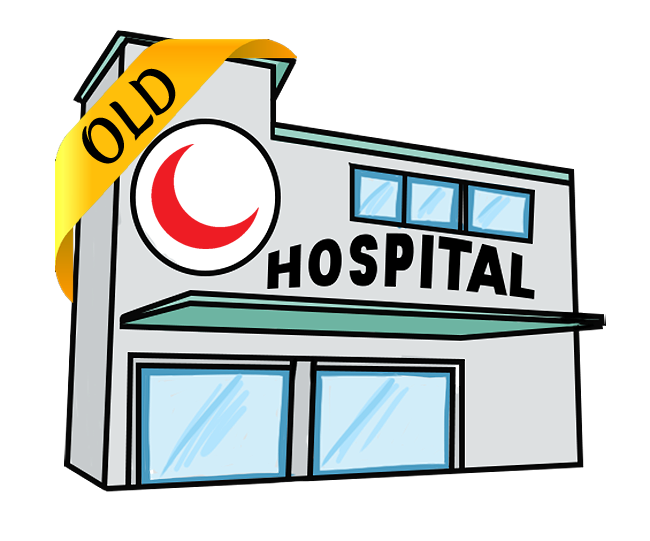
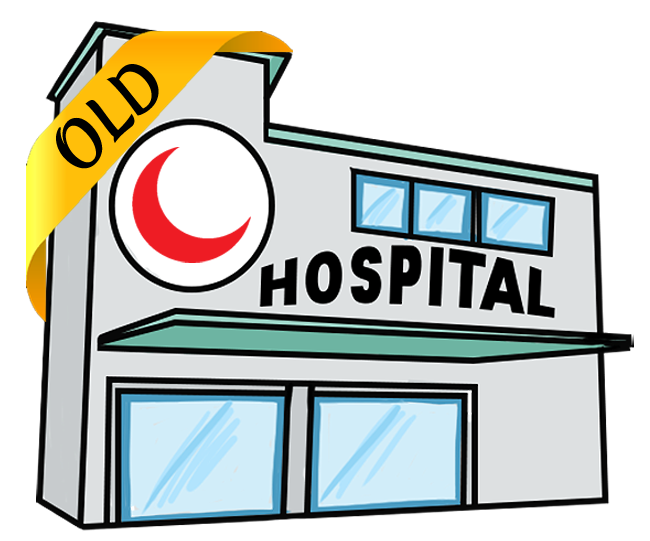
code quality update
1.separate task for recommend and return in "Recommend PO"
2.change resolution for old hospital

diff --git a/controllers/Procurement.php b/controllers/Procurement.php
@@ -50,7 +50,7 @@ class Procurement extends CI_Controller {
 			//echo "lalalal : ".$data['mrintype'];
 			$this->load->model('display_model');
 			$data['user'] = $this->display_model->user_class($this->session->userdata('v_UserName'));
-			//print_r($data['user']);
+			print_r($data['user']);
 			$this->load->model('get_model');
 			if ((empty($search)) && ($this->get_model->check_userimg())) {
 				$data['record']= $this->display_model->mrinlist($data['month'],$data['year'],$data['mrintype'], $data['user'][0]->class_id,"IMG");
@@ -146,7 +146,6 @@ class Procurement extends CI_Controller {
 				}
 
 				$config['file_name'] = $new_name;
-				$data['upload_data']['client_name'] = $new_name;
 
 	            $this->load->library('upload', $config);
 
@@ -246,7 +245,6 @@ class Procurement extends CI_Controller {
 			$data['upload_data'] = NULL;
 			$data['insertid'] = '';
 		}
-		//print_r($data);exit();
 		$this ->load->view("head");
 		$this ->load->view("asset3_comm_new",$data);
 	}
@@ -447,6 +445,7 @@ class Procurement extends CI_Controller {
 			}
 			//echo "nilai search : ".$search;
 		$data['tab']= ($this->input->get('tab') != '') ? $this->input->get('tab') : 0;
+		//if ($data['tab'] != 2){
 		if ($data['tab'] == 0){
 			$data['record'] = $this->display_model->prlist($data['month'],$data['year'],$this->input->get('tab'));
 		}
@@ -520,7 +519,7 @@ class Procurement extends CI_Controller {
 			case "PDX" :
 			case "KPL" :
 			case "SBN" :
-       $hoswakil = "Amirul Shazwan bin Amran";
+       $hoswakil = "Kamarulnizam bin Abu Hassan";
 			 //$hospapa = "SBN";
 			 break;
     	case "IIU":
@@ -649,7 +648,7 @@ class Procurement extends CI_Controller {
 		$data['run_no'] = $this->get_model->run_no();
 		$update_data = array('Run_no' => $data['run_no'][0]->Run_no + 1,
 							 'time_stamp' => date("Y-m-d H:i:s"));
-		//$this->update_model->uprun_no($update_data);
+		$this->update_model->uprun_no($update_data);
 		$data['runningno'] = 'temp'.$data['run_no'][0]->Run_no;
 
 
@@ -1304,28 +1303,23 @@ class Procurement extends CI_Controller {
 				$this->load->model('display_model');
 				$this->load->model('get_model');
 
-				if($action==107)
-								$this->update_model->resetmirn($mrin,6);
 				$data['PO_mrin'] = $this->display_model->checkPO($mrin);
-				/*
-							$insert_data = array('MirnCode' => $mrin,
-								 'Payment_Opt' => 'COD');
-							if($data['PO_mrin']==null)$this->insert_model->mrin_payment($insert_data);
-							*/
-							$data['itemrec'] = $this->display_model->itemdet($mrin);
-							foreach($data['itemrec'] as $row){
-								$insert_data = array('QtyReqfx' => $row->QtyReq,
-						'DtApprv1x' => date("Y-m-d H:i:s"),
-						'Unit_Costx' => $row->Unit_Cost,
-						'ApprvRmk1x' => $row->ApprvRmk,
-						'Part_Exchg' =>  0);
+				$data['itemrec'] = $this->display_model->itemdet($mrin);
+				if($action==107){
+								$this->update_model->resetmirn($mrin,6);
 							}
-							$this->update_model->mrincomp_u($insert_data,$mrin);
-							$data['newpr'] = $this->get_model->nextprnumber();
-							
+								elseif($action==4){
+									foreach($data['itemrec'] as $row){
+										$insert_data = array('QtyReqfx' => $row->QtyReq,
+								'DtApprv1x' => date("Y-m-d H:i:s"),
+								'Unit_Costx' => $row->Unit_Cost,
+								'ApprvRmk1x' => $row->ApprvRmk,
+								'Part_Exchg' =>  0);
+									}
+									$this->update_model->mrincomp_u($insert_data,$mrin);
+									$data['newpr'] = $this->get_model->nextprnumber();
 
 							$update_data = array('PR_No' => $data['newpr'][0]->prno);
-							
 							$this->update_model->tbl_pr_mirn($update_data,$mrin);
 							$insert_pr = array('PRNo' => $data['newpr'][0]->prno,
 							   'DT_Released' => date("Y-m-d H:i:s"),
@@ -1341,12 +1335,6 @@ class Procurement extends CI_Controller {
 							$update_prno = array('pr_next_no' => $data['newpr'][0]->pr_next_no + 1,
 								 'userid' => $this->session->userdata('v_UserName'));
 							$this->update_model->updatepr($update_prno,date('Y'));
-							// $insert_pr = array(//'SM_Comen' => $this->input->post('n_remark'),
-							//    'SM_Status' => '4',
-							//    //'vendor_rmk' => $this->input->post('n_remark'),
-							//    'Apprv_By' => $this->session->userdata('v_UserName'),
-							//    'DT_Apprv' => date("Y-m-d H:i:s"));
-							//$this->update_model->tbl_pr_u($insert_pr,$data['newpr'][0]->prno);
 							$data['newpo'] = $this->get_model->nextponumber($mrin);
 							$insert_po = array(
 								'MIRN_No' => $mrin,
@@ -1368,6 +1356,29 @@ class Procurement extends CI_Controller {
 							   'PO_Date' => date("Y-m-d"),
 								 'visit' => '1');
 								 if($data['PO_mrin']==null)$this->insert_model->tbl_po($insert_tbl_po);
+								}
+				
+				/*
+							$insert_data = array('MirnCode' => $mrin,
+								 'Payment_Opt' => 'COD');
+							if($data['PO_mrin']==null)$this->insert_model->mrin_payment($insert_data);
+							*/
+							
+							
+							
+							
+
+							
+							
+							// $insert_pr = array(//'SM_Comen' => $this->input->post('n_remark'),
+							//    'SM_Status' => '4',
+							//    //'vendor_rmk' => $this->input->post('n_remark'),
+							//    'Apprv_By' => $this->session->userdata('v_UserName'),
+							//    'DT_Apprv' => date("Y-m-d H:i:s"));
+							//$this->update_model->tbl_pr_u($insert_pr,$data['newpr'][0]->prno);
+							
+
+								 
 
 	}
 
